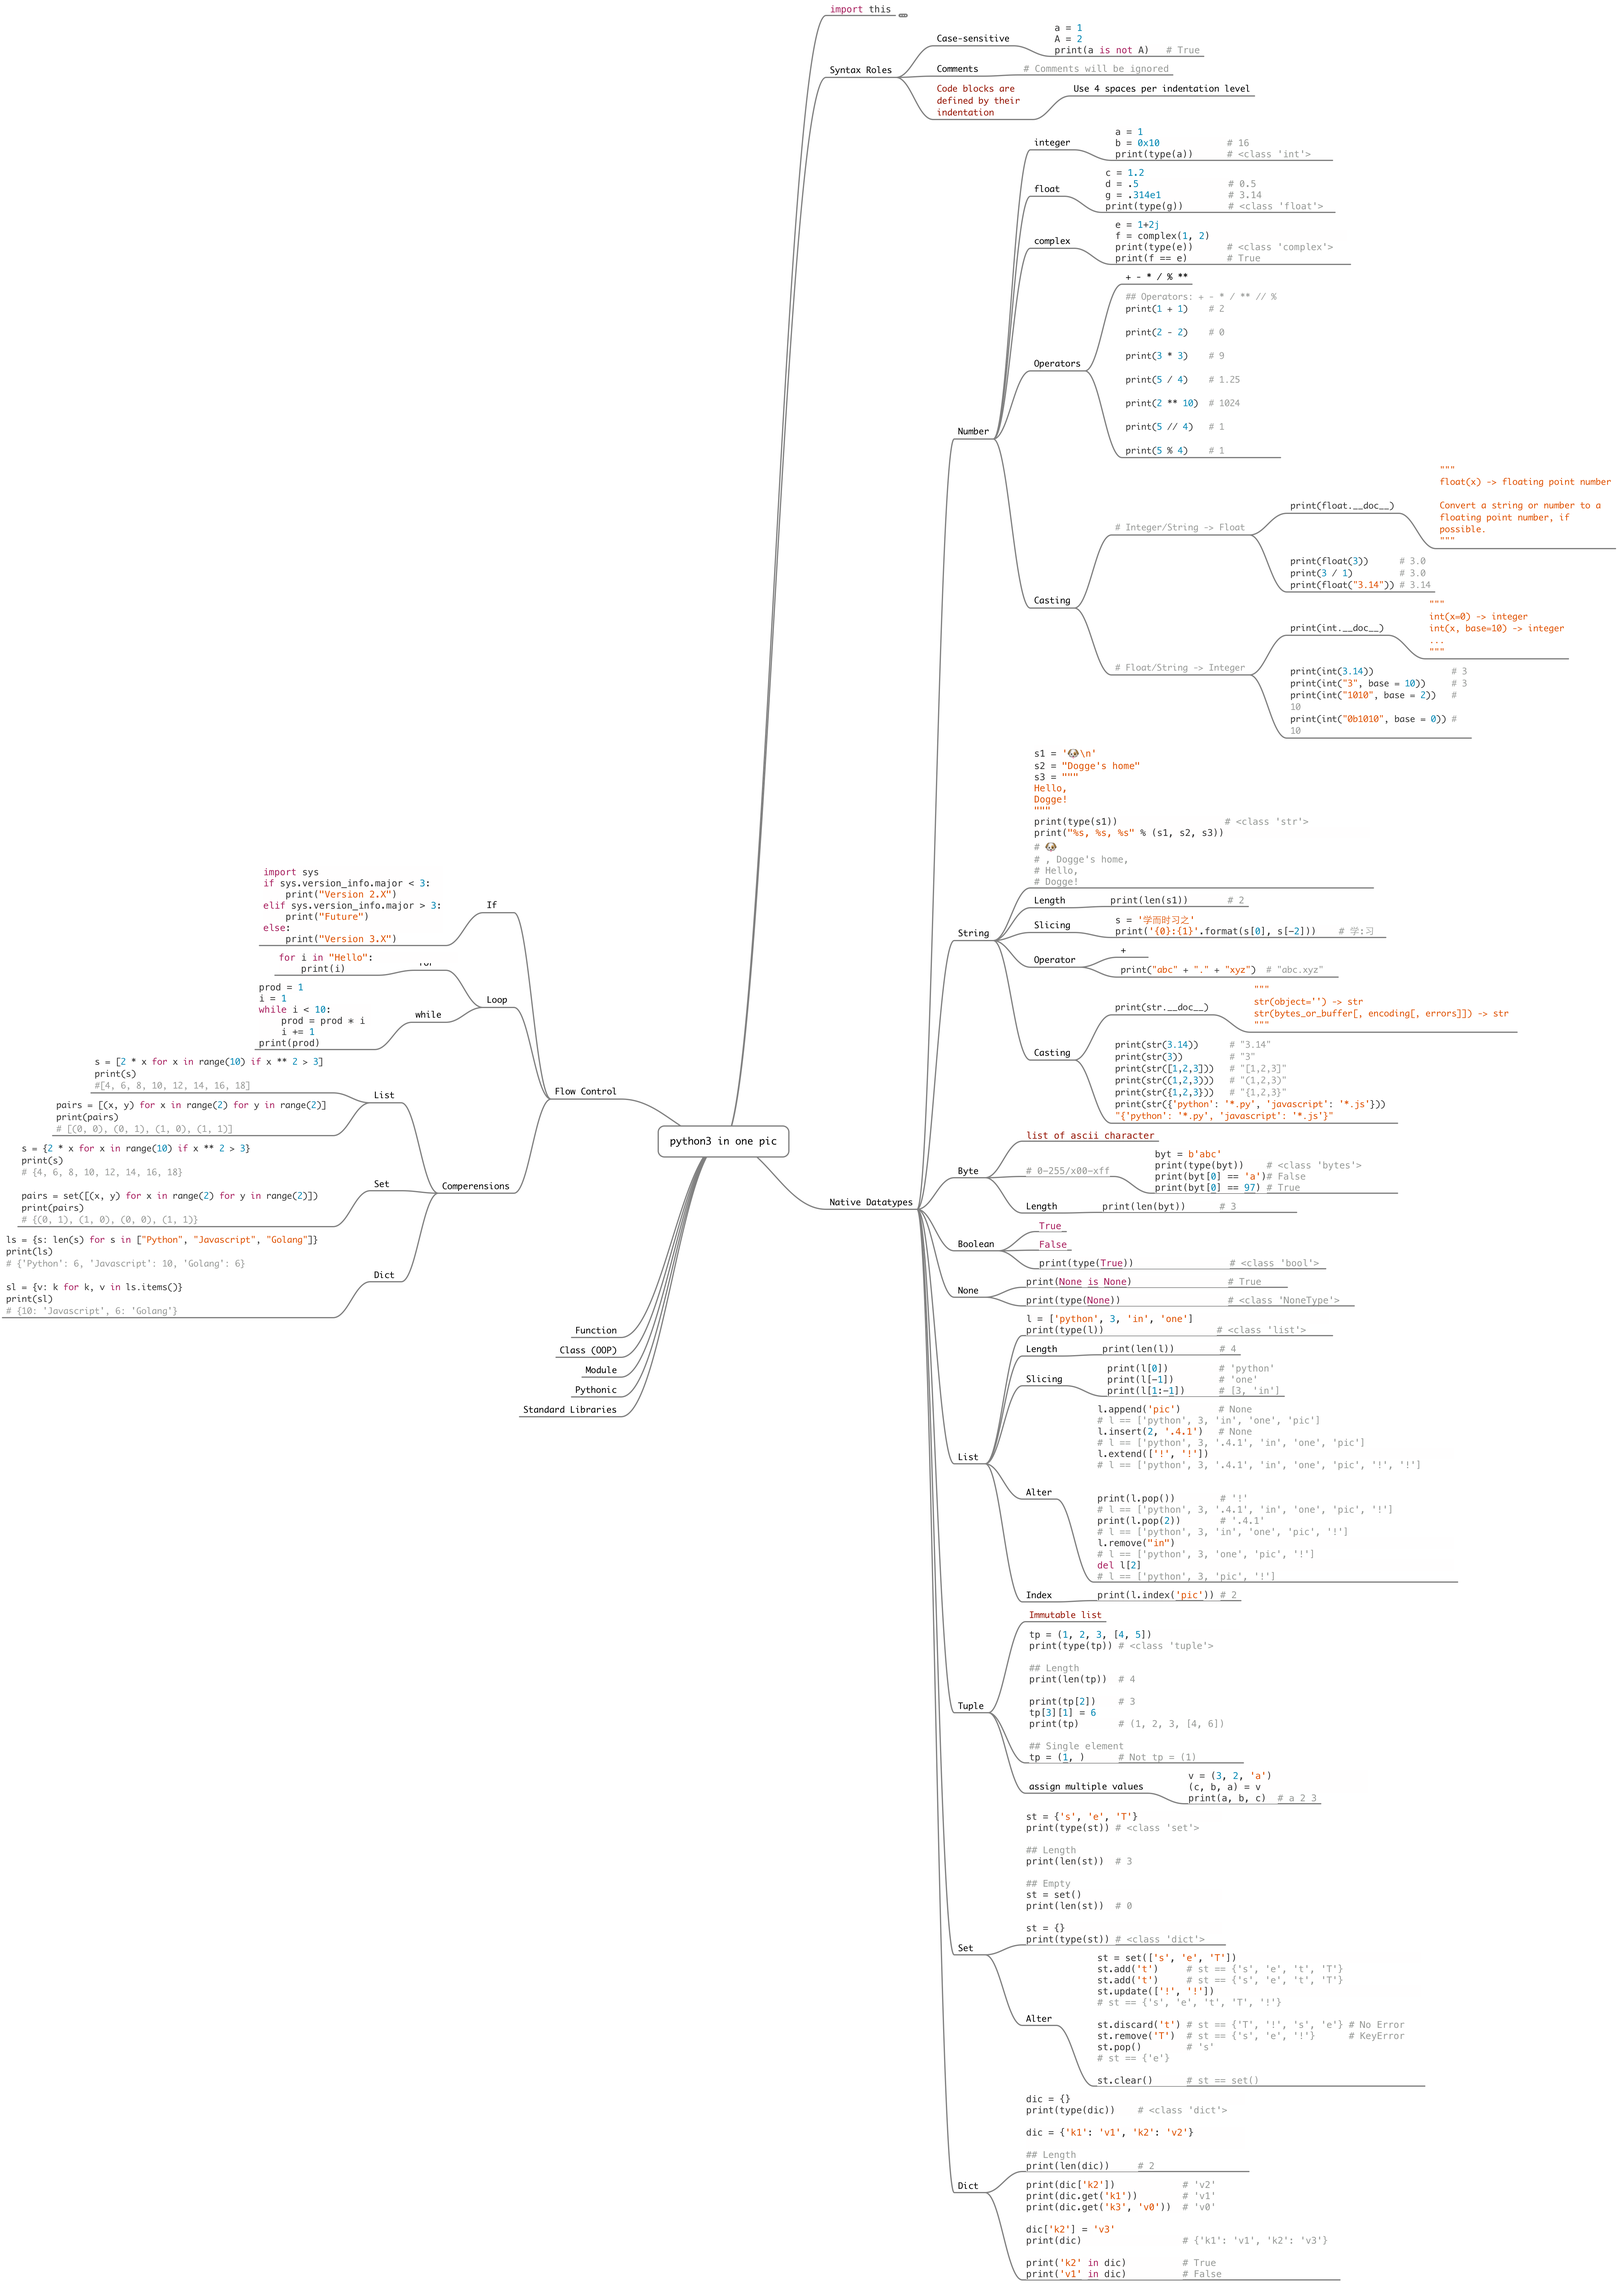
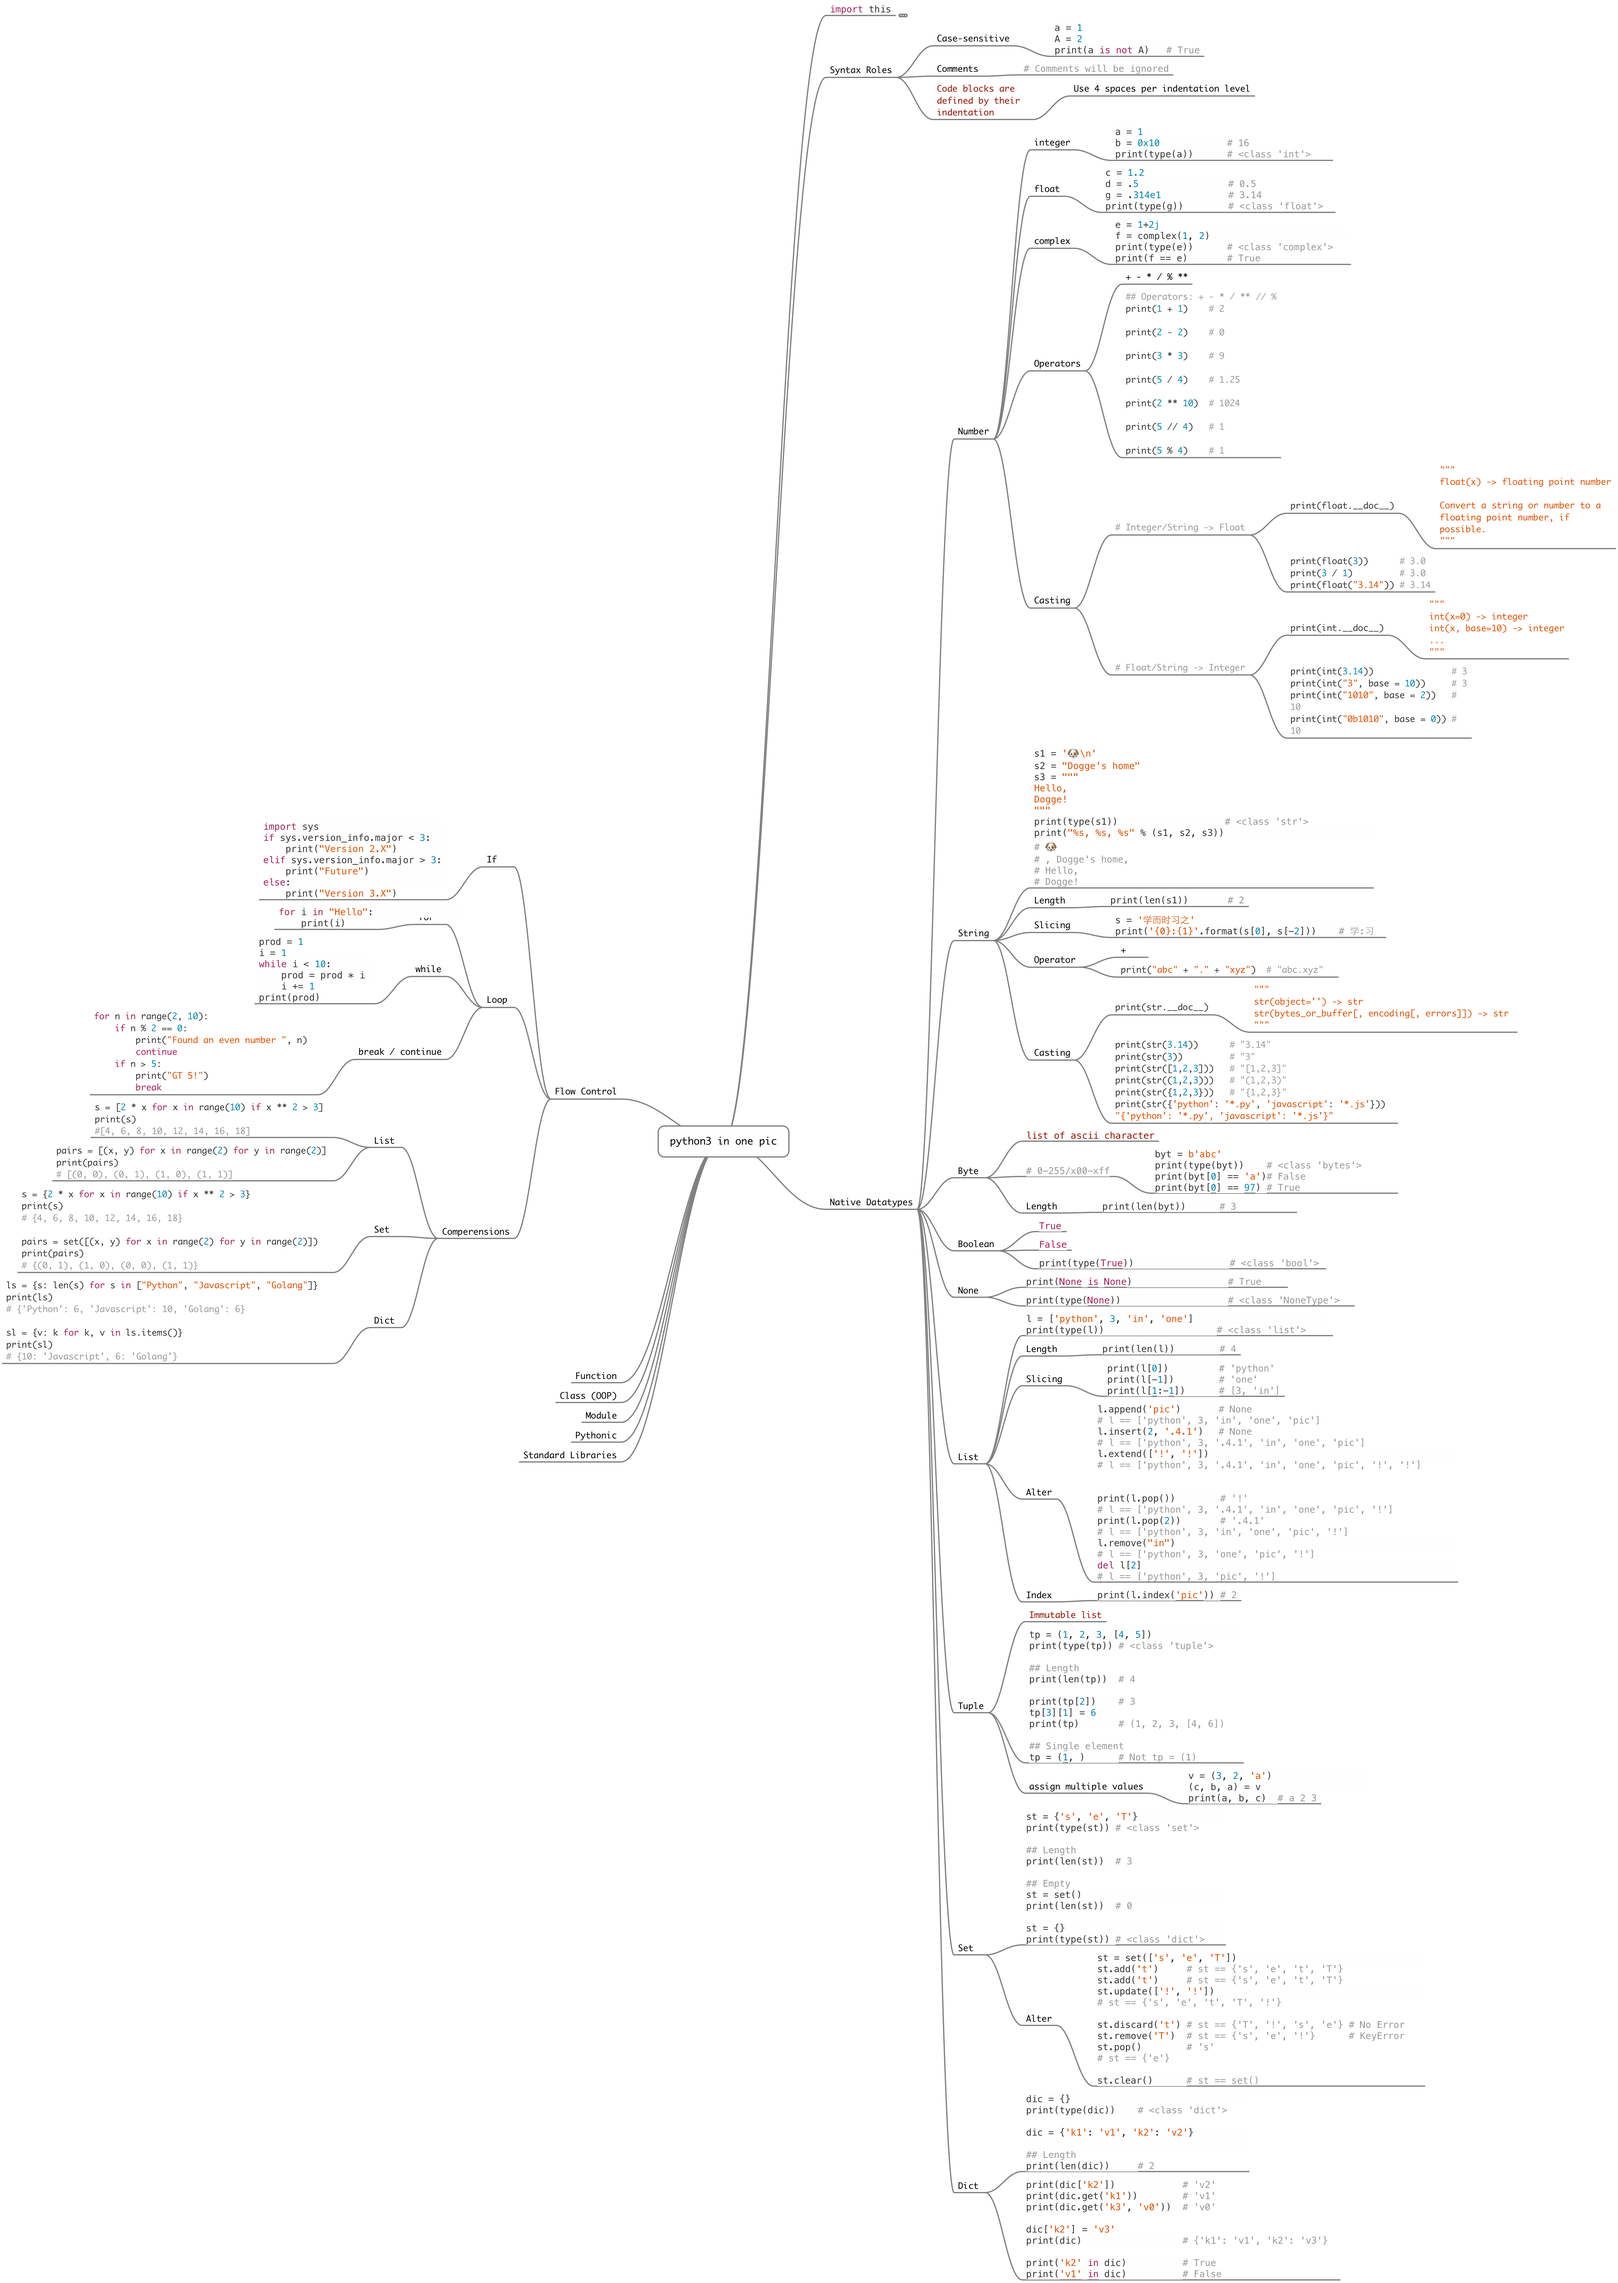
break & continue :door:

Changed region(s): [[0.0, 0.3743, 0.2495, 0.5926], [0.3431, 0.5302, 0.4367, 0.6238]]

diff --git a/README.md b/README.md
@@ -40,6 +40,7 @@
   - [X] `if/elif/else`
   - [X] `for...in...`
   - [X] `while`
+  - [X] `break` & `continue`
   - [X] Comprehensions
 - [ ] Function
 - [ ] Class(OOP)
